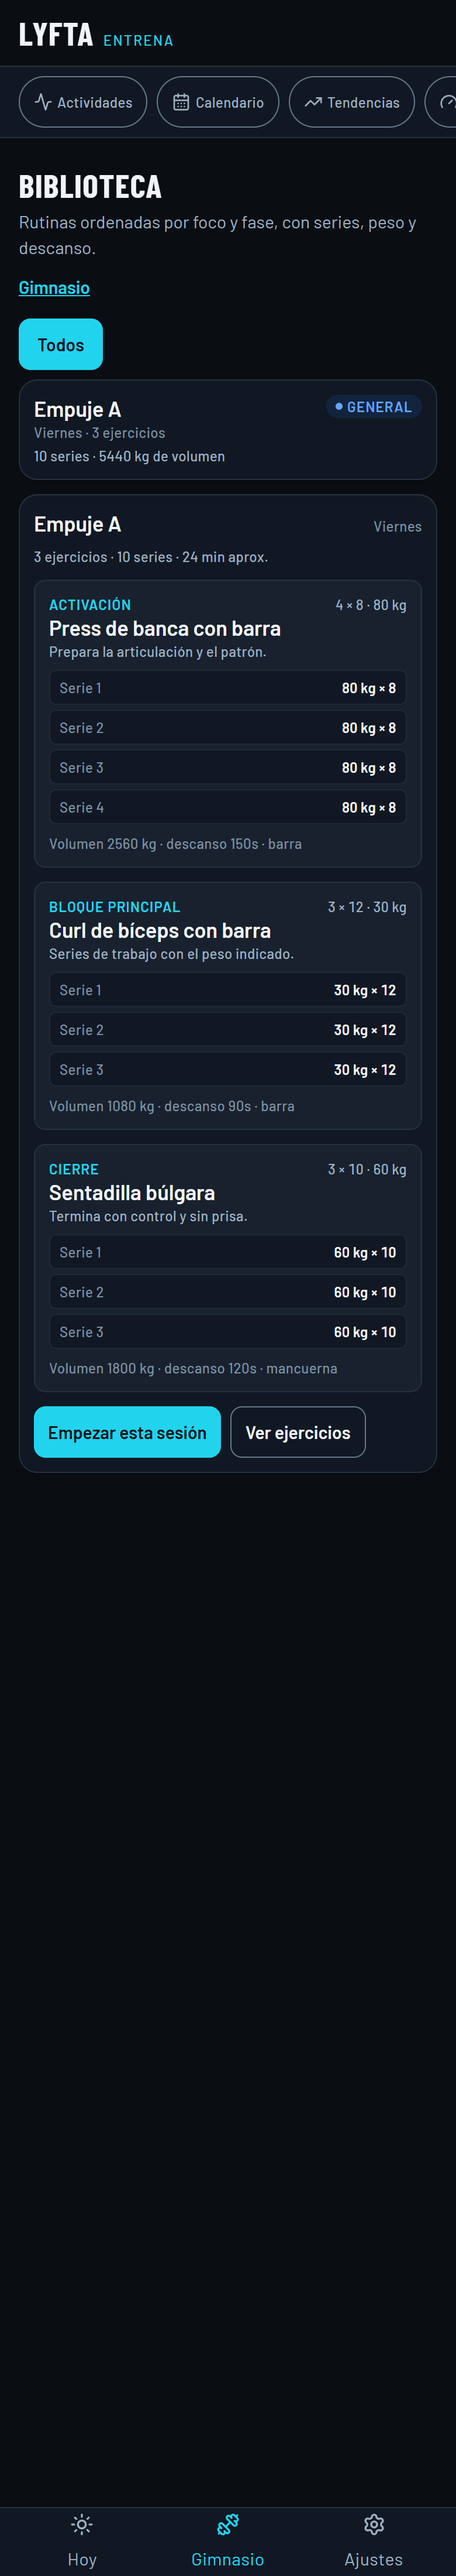
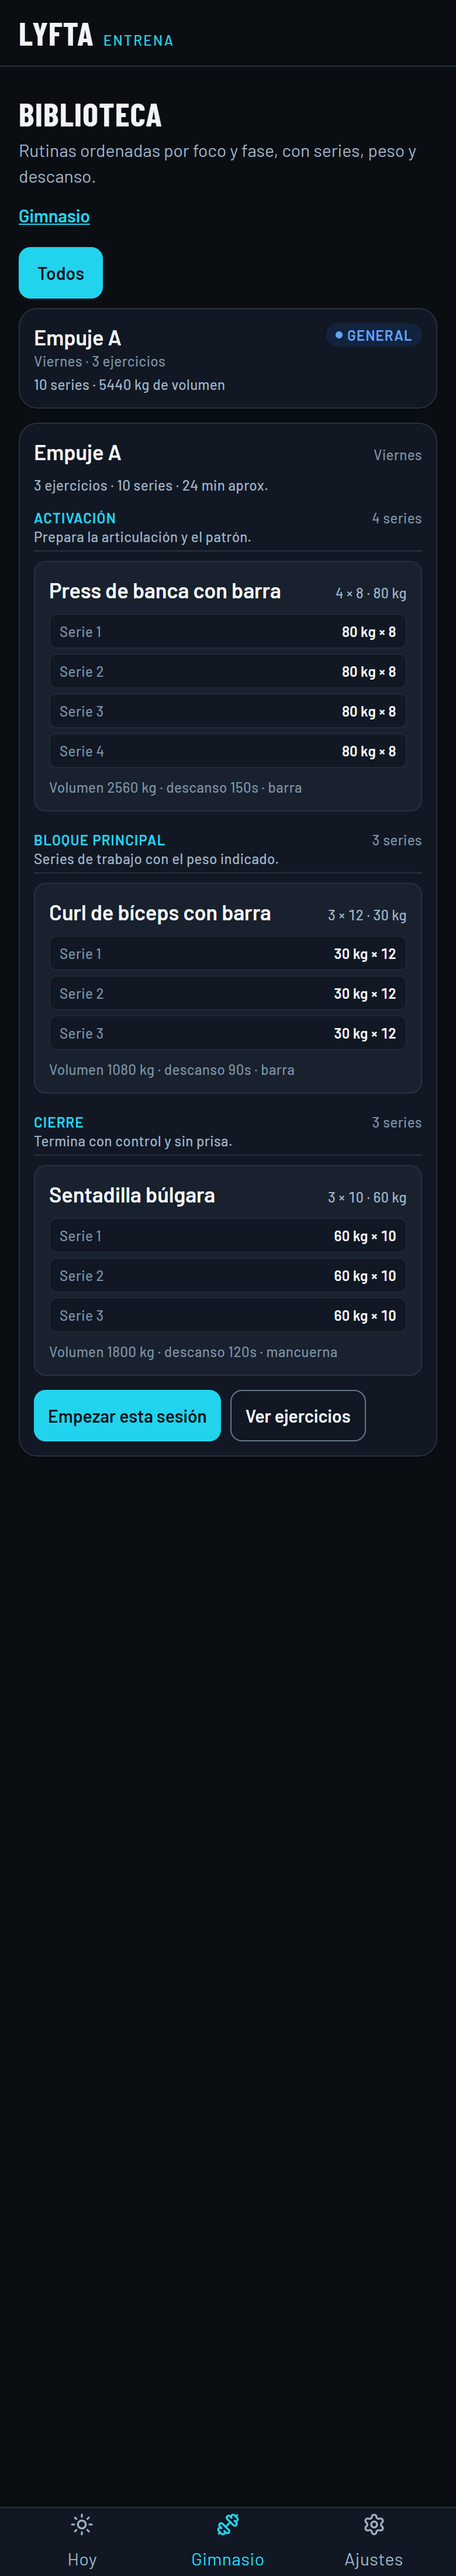
Biblioteca: agrupar fases y normalizar foco

diff --git a/frontend-nuevo/src/pages/extended/LibraryPage.tsx b/frontend-nuevo/src/pages/extended/LibraryPage.tsx
@@ -2,6 +2,7 @@ import { useState } from 'react';
 import { Link } from 'react-router-dom';
 import { useTemplate, useTemplates } from '../../api/queries';
 import { Badge, Button, Card, EmptyState, ErrorState, LoadingBlock, PageHeader, SectionTitle } from '../../components/ui';
+import type { TemplateExercise } from '../../api/types';
 import { formatMinutes, formatNumber } from '../../lib/format';
 
 const FOCUS_ORDER = ['Push', 'Pull', 'Legs', 'Full Body'];
@@ -13,9 +14,34 @@ const FOCUS_LABEL: Record<string, string> = {
 };
 
 function phaseFor(index: number, total: number): { label: string; hint: string } {
-  if (total >= 3 && index === 0) return { label: 'Activación', hint: 'Prepara la articulación y el patrón.' };
-  if (total >= 3 && index === total - 1) return { label: 'Cierre', hint: 'Termina con control y sin prisa.' };
+  if (total === 1) return { label: 'Bloque principal', hint: 'Series de trabajo con el peso indicado.' };
+  if (total === 2) {
+    return index === 0
+      ? { label: 'Activación', hint: 'Prepara la articulación y el patrón.' }
+      : { label: 'Bloque principal', hint: 'Series de trabajo con el peso indicado.' };
+  }
+  if (index === 0) return { label: 'Activación', hint: 'Prepara la articulación y el patrón.' };
+  if (index === total - 1) return { label: 'Cierre', hint: 'Termina con control y sin prisa.' };
   return { label: 'Bloque principal', hint: 'Series de trabajo con el peso indicado.' };
+}
+
+function focusKey(focus: string | null): string {
+  const value = (focus ?? '').toLowerCase();
+  return FOCUS_ORDER.find((item) => item.toLowerCase() === value) ?? focus ?? '';
+}
+
+function groupPhases(exercises: TemplateExercise[]): { label: string; hint: string; items: TemplateExercise[] }[] {
+  const groups: { label: string; hint: string; items: TemplateExercise[] }[] = [];
+  exercises.forEach((exercise, index) => {
+    const phase = phaseFor(index, exercises.length);
+    const current = groups.find((group) => group.label === phase.label);
+    if (current) {
+      current.items.push(exercise);
+    } else {
+      groups.push({ ...phase, items: [exercise] });
+    }
+  });
+  return groups;
 }
 
 export function LibraryPage() {
@@ -30,12 +56,12 @@ export function LibraryPage() {
   }
 
   const items = [...templates.data.items].sort((a, b) => {
-    const fa = FOCUS_ORDER.indexOf(a.focus ?? '');
-    const fb = FOCUS_ORDER.indexOf(b.focus ?? '');
+    const fa = FOCUS_ORDER.indexOf(focusKey(a.focus));
+    const fb = FOCUS_ORDER.indexOf(focusKey(b.focus));
     return (fa === -1 ? 9 : fa) - (fb === -1 ? 9 : fb) || a.name.localeCompare(b.name);
   });
-  const focuses = Array.from(new Set(items.map((item) => item.focus).filter(Boolean) as string[]));
-  const filtered = focusFilter === 'all' ? items : items.filter((item) => item.focus === focusFilter);
+  const focuses = Array.from(new Set(items.map((item) => focusKey(item.focus)).filter(Boolean)));
+  const filtered = focusFilter === 'all' ? items : items.filter((item) => focusKey(item.focus) === focusFilter);
 
   return (
     <>
@@ -84,7 +110,7 @@ export function LibraryPage() {
                               {template.weekday_label ?? 'Sin día fijo'} · {template.exercises.length} ejercicios
                             </p>
                           </div>
-                          <Badge tone="info">{FOCUS_LABEL[template.focus ?? ''] ?? template.focus ?? 'General'}</Badge>
+                          <Badge tone="info">{FOCUS_LABEL[focusKey(template.focus)] ?? (focusKey(template.focus) || 'General')}</Badge>
                         </div>
                         <p className="mt-1 text-caption text-ink-muted">
                           {template.total_sets} series · {formatNumber(template.estimated_tonnage_kg, 'kg')} de volumen
@@ -114,48 +140,57 @@ export function LibraryPage() {
                   {selected.data.exercises.length} ejercicios · {selected.data.total_sets} series ·{' '}
                   {formatMinutes(selected.data.exercises.length * 8)} aprox.
                 </p>
-                <div className="mt-3 flex flex-col gap-3">
-                  {selected.data.exercises.map((item, index) => {
-                    const phase = phaseFor(index, selected.data.exercises.length);
-                    const targets = item.set_targets?.length
-                      ? item.set_targets
-                      : Array.from({ length: item.sets }, (_, setIndex) => ({
-                          set_number: setIndex + 1,
-                          reps: item.reps,
-                          weight_kg: item.weight_kg,
-                        }));
-                    const volume = targets.reduce((total, target) => total + target.weight_kg * target.reps, 0);
-                    return (
-                      <article key={item.id} className="rounded-md border border-line bg-raised p-3">
-                        <div className="flex flex-wrap items-baseline justify-between gap-2">
-                          <span className="text-caption font-semibold uppercase tracking-wider text-accent">{phase.label}</span>
-                          <span className="tnum text-caption text-ink-muted">
-                            {item.sets} × {item.reps} {item.weight_kg ? `· ${item.weight_kg} kg` : ''}
-                          </span>
+                <div className="mt-3 flex flex-col gap-4">
+                  {groupPhases(selected.data.exercises).map((group) => (
+                    <section key={group.label} aria-label={group.label}>
+                      <div className="mb-2 flex flex-wrap items-baseline justify-between gap-2 border-b border-line pb-1">
+                        <div>
+                          <h3 className="text-caption font-semibold uppercase tracking-wider text-accent">{group.label}</h3>
+                          <p className="text-caption text-ink-muted">{group.hint}</p>
                         </div>
-                        <h3 className="text-heading text-ink">{item.exercise?.name ?? 'Ejercicio'}</h3>
-                        <p className="text-caption text-ink-muted">{phase.hint}</p>
-                        <div className="mt-2 grid gap-1 sm:grid-cols-2">
-                          {targets.map((target) => (
-                            <div
-                              key={target.set_number}
-                              className="flex items-center justify-between rounded-sm border border-line/70 bg-surface px-2 py-1.5 text-caption"
-                            >
-                              <span className="text-ink-faint">Serie {target.set_number}</span>
-                              <span className="tnum font-semibold text-ink">
-                                {target.weight_kg ? `${formatNumber(target.weight_kg, 'kg')} × ${target.reps}` : ` corporal × ${target.reps}`}
-                              </span>
-                            </div>
-                          ))}
-                        </div>
-                        <p className="mt-2 text-caption text-ink-faint">
-                          Volumen {formatNumber(volume, 'kg')} · descanso {item.rest_seconds}s
-                          {item.exercise ? ` · ${item.exercise.equipment}` : ''}
-                          {item.notes ? ` · ${item.notes}` : ''}
-                        </p>
-                      </article>
-                    );
-                  })}
+                        <span className="tnum text-caption text-ink-faint">
+                          {group.items.reduce((total, item) => total + item.sets, 0)} series
+                        </span>
+                      </div>
+                      <div className="flex flex-col gap-2">
+                        {group.items.map((item) => {
+                          const targets = item.set_targets?.length
+                            ? item.set_targets
+                            : Array.from({ length: item.sets }, (_, setIndex) => ({
+                                set_number: setIndex + 1,
+                                reps: item.reps,
+                                weight_kg: item.weight_kg,
+                              }));
+                          const volume = targets.reduce((total, target) => total + target.weight_kg * target.reps, 0);
+                          return (
+                            <article key={item.id} className="rounded-md border border-line bg-raised p-3">
+                              <div className="flex flex-wrap items-baseline justify-between gap-2">
+                                <h4 className="text-heading text-ink">{item.exercise?.name ?? 'Ejercicio'}</h4>
+                                <span className="tnum text-caption text-ink-muted">
+                                  {item.sets} × {item.reps} {item.weight_kg ? `· ${item.weight_kg} kg` : ''}
+                                </span>
+                              </div>
+                              <div className="mt-2 grid gap-1 sm:grid-cols-2">
+                                {targets.map((target) => (
+                                  <div key={target.set_number} className="flex items-center justify-between rounded-sm border border-line/70 bg-surface px-2 py-1.5 text-caption">
+                                    <span className="text-ink-faint">Serie {target.set_number}</span>
+                                    <span className="tnum font-semibold text-ink">
+                                      {target.weight_kg ? `${formatNumber(target.weight_kg, 'kg')} × ${target.reps}` : `corporal × ${target.reps}`}
+                                    </span>
+                                  </div>
+                                ))}
+                              </div>
+                              <p className="mt-2 text-caption text-ink-faint">
+                                Volumen {formatNumber(volume, 'kg')} · descanso {item.rest_seconds}s
+                                {item.exercise ? ` · ${item.exercise.equipment}` : ''}
+                                {item.notes ? ` · ${item.notes}` : ''}
+                              </p>
+                            </article>
+                          );
+                        })}
+                      </div>
+                    </section>
+                  ))}
                 </div>
                 <div className="mt-3 flex flex-wrap gap-2">
                   <Link to={`/gimnasio/entrenar?template=${selected.data.id}`} className="focus-ring inline-flex min-h-11 items-center rounded-md bg-accent px-3 text-body font-semibold text-on-accent">

diff --git a/frontend-nuevo/src/test/library.test.tsx b/frontend-nuevo/src/test/library.test.tsx
@@ -19,6 +19,8 @@ describe('biblioteca de entrenamientos', () => {
     renderApp('/gimnasio/biblioteca');
 
     expect(await screen.findByRole('heading', { name: 'Biblioteca' })).toBeInTheDocument();
+    const empuje = screen.getByRole('button', { name: /^empuje$/i });
+    expect(empuje).toBeInTheDocument();
     await user.click(await screen.findByRole('button', { name: /empuje a/i }));
 
     expect(await screen.findByText(/bloque principal/i)).toBeInTheDocument();
